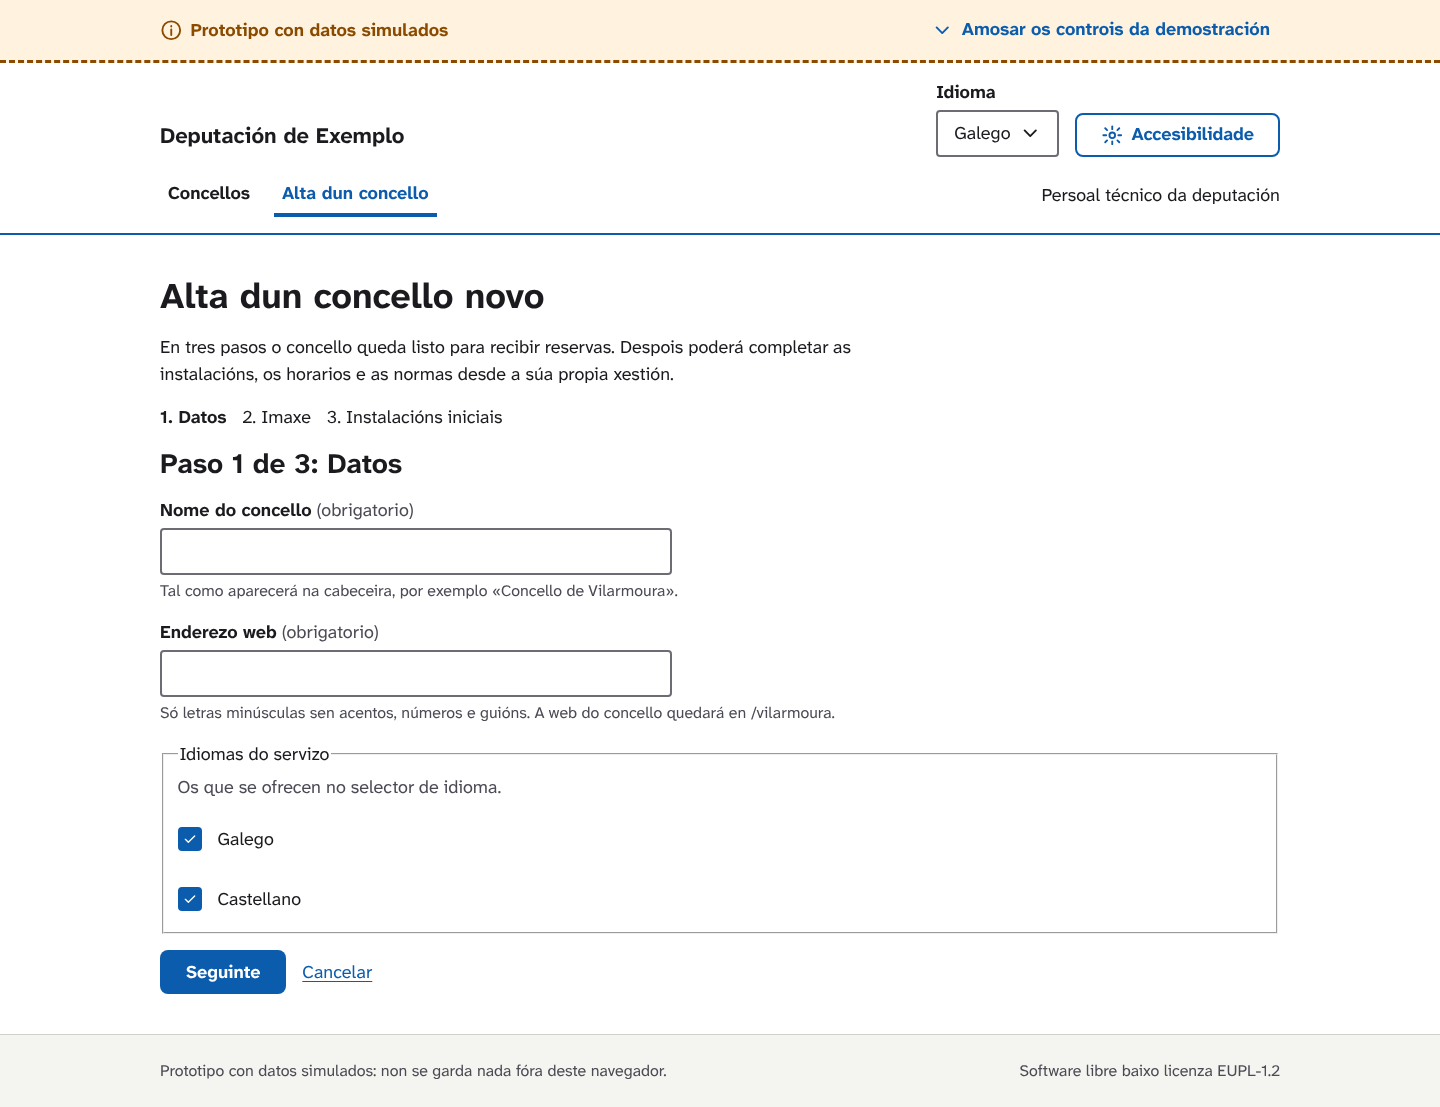
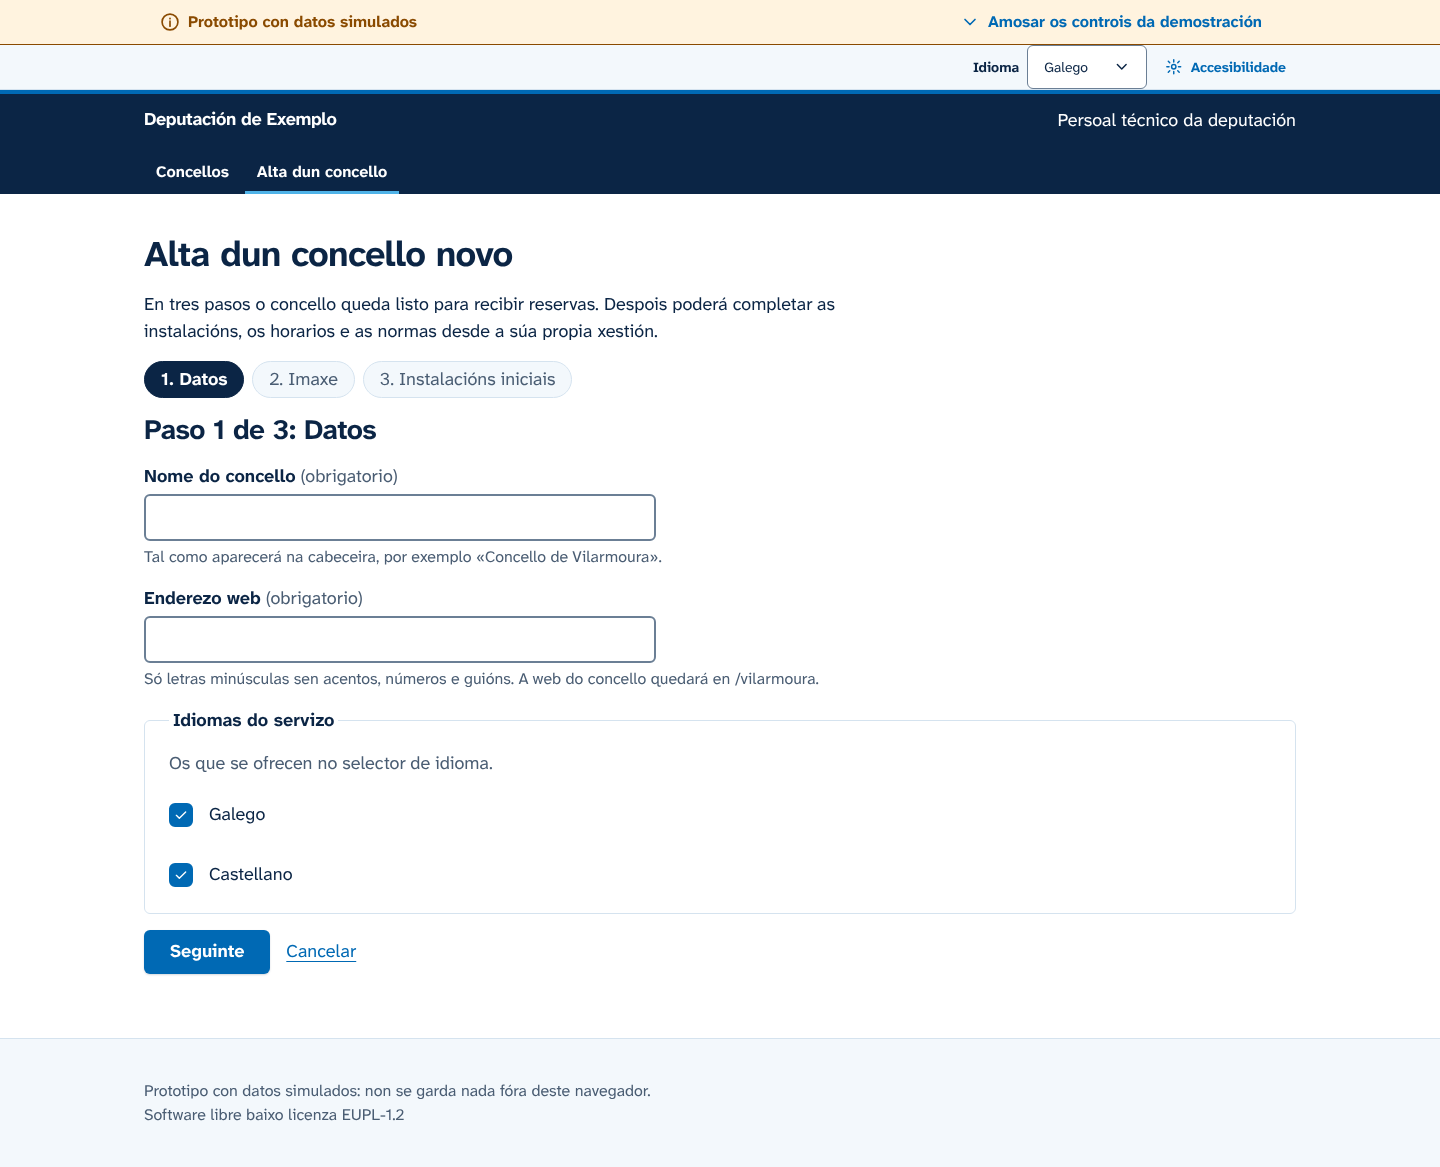
docs: capturas co deseño novo e apartado de deseño no README

diff --git a/README.md b/README.md
@@ -8,7 +8,7 @@ Proposta para o **I Certame GOBTEC de Software Libre**.
 
 **Demostración:** <https://dacalite.github.io/quenda/>
 
-<img src="docs/capturas/mobil/03-franxas.png" width="260" alt="Dispoñibilidade dunha pista de pádel no móbil, coas horas recomendadas e as franxas agrupadas en mañá, tarde e noite">
+<img src="docs/capturas/mobil/03-franxas.png" width="260" alt="Dispoñibilidade dunha pista de pádel no móbil: tira cos próximos días, horas recomendadas e barra de lapelas">
 
 ## Que se pode facer
 
@@ -26,12 +26,18 @@ Proposta para o **I Certame GOBTEC de Software Libre**.
 - Instalacións, horarios, festivos, normas con herdanza e tarifas, sen código.
 - Bloqueos que avisan ás persoas afectadas e reservas de tempada dos clubs con detección de conflitos.
 - Control de acceso por QR, indicadores con táboas e CSV, e rexistro de actividade.
-- Configuración do nome, escudo, cor (con comprobación de contraste), idiomas e textos legais.
+- Configuración do nome, escudo, cor de acento (con comprobación de contraste), idiomas e textos legais.
 
 **Deputación**
 
 - Concellos adheridos e indicadores comparados.
 - Alta dun concello novo en tres pasos, listo para recibir reservas.
+
+## Deseño
+
+Un só sistema de deseño con dúas superficies. A veciñanza ten unha experiencia de aplicación móbil: barra de lapelas, franxas en tarxetas, as reservas como billetes e o código QR nun pase listo para amosar na entrada. O persoal do concello e a deputación traballan nunha interface máis densa, con táboas compactas e unha barra de navegación corporativa.
+
+As cores son as da Xunta e de Galicia: branco, azul celeste e azuis escuros, coa banda diagonal da bandeira como único elemento decorativo. A cor de cada concello vai como acento no escudo e na cabeceira. Os contrastes de todas as parellas de cores compróbanse en tests, tamén no modo de alto contraste.
 
 ## Probalo
 
@@ -48,7 +54,8 @@ A barra amarela da parte superior permite cambiar de rol (cidadanía, persoal do
 Os concellos de Bouzalonga (pequeno e rural) e Ribasmeiras (mediano) e a Deputación de Exemplo son ficticios.
 
 <p>
-  <img src="docs/capturas/mobil/01-inicio.png" width="260" alt="Inicio do Concello de Bouzalonga no móbil">
+  <img src="docs/capturas/mobil/01-inicio.png" width="260" alt="Inicio do Concello de Bouzalonga no móbil, co buscador e a próxima reserva como un billete">
+  <img src="docs/capturas/mobil/04-confirmacion.png" width="260" alt="Reserva confirmada no móbil, co código e a QR nun pase">
   <img src="docs/capturas/escritorio/06-panel.png" width="520" alt="Panel de xestión do Concello de Ribasmeiras no escritorio">
 </p>
 
